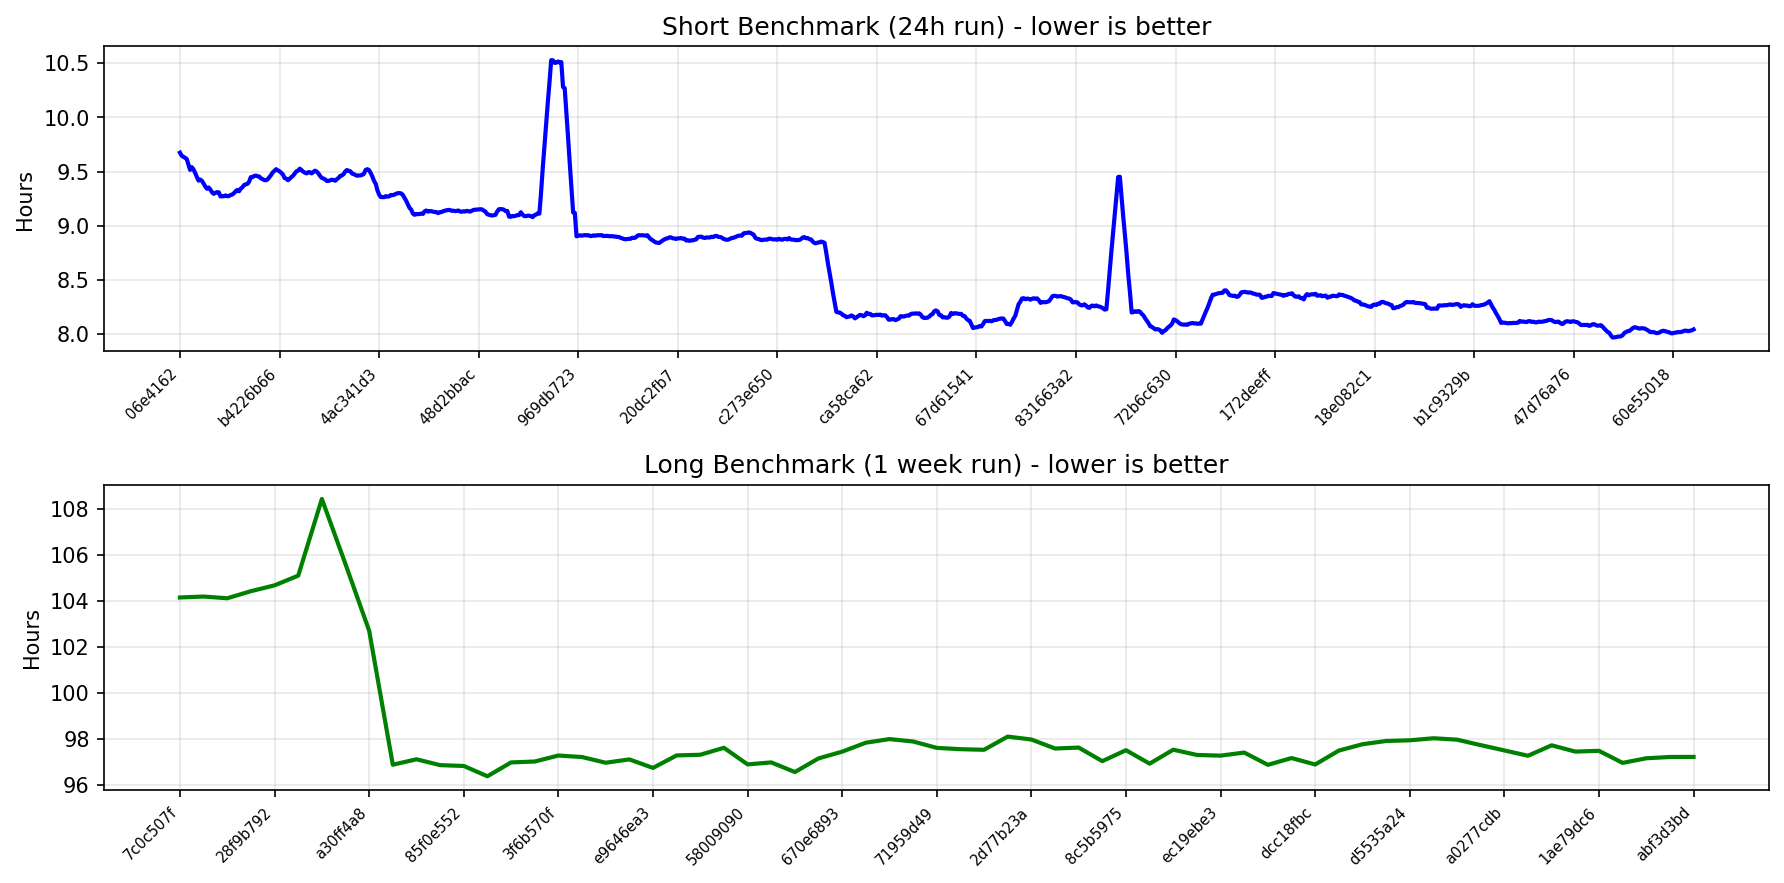
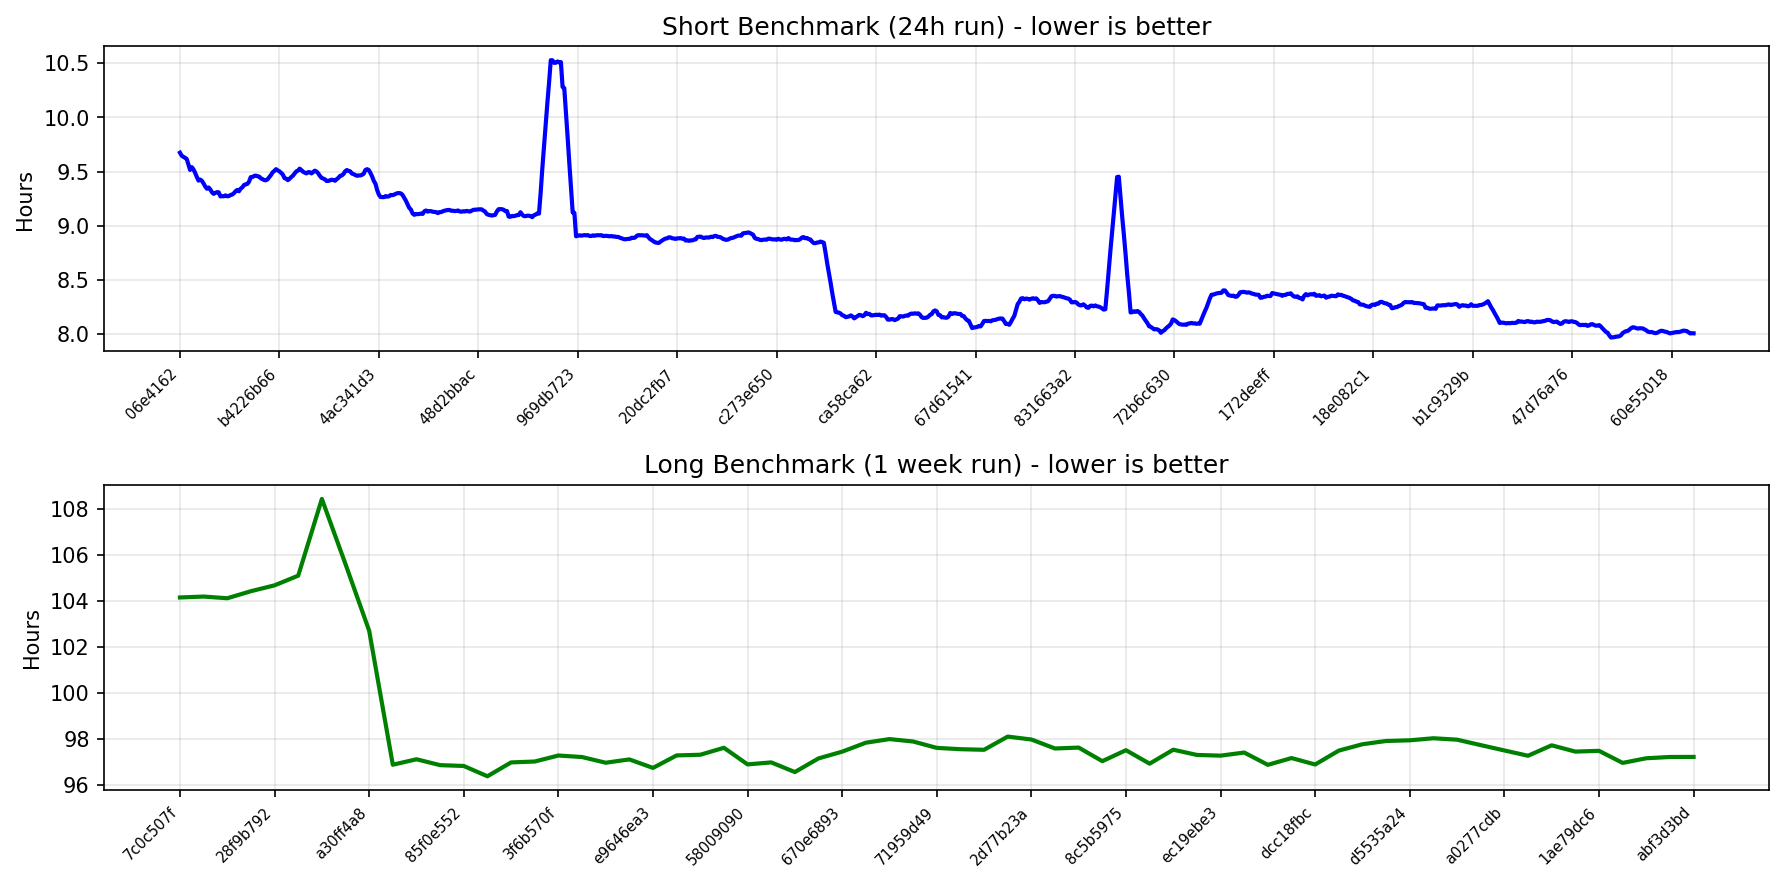
chore: update short benchmark Readme

diff --git a/README.md b/README.md
@@ -12,11 +12,11 @@ This repository contains various eth1 import benchmark metrics.
 
 | Generated At | Baseline SHA | Contender SHA | Baseline Time | Contender Time | Time Delta |
 |--------------|--------------|---------------|---------------|----------------|------------|
+| 2026-08-21 11:32:33 | [6648ce1b](https://github.com/status-im/nimbus-eth1/commit/6648ce1b) | [cde53ac2](https://github.com/status-im/nimbus-eth1/commit/cde53ac2) | 8h1m47s | 7h55m44s | -6m3s, -1.26% |
 | 2026-08-21 03:16:10 | [ceac1963](https://github.com/status-im/nimbus-eth1/commit/ceac1963) | [6648ce1b](https://github.com/status-im/nimbus-eth1/commit/6648ce1b) | 8h1m45s | 8h1m47s | 1s, 0.01% |
 | 2026-08-20 19:00:10 | [fe429cf6](https://github.com/status-im/nimbus-eth1/commit/fe429cf6) | [ceac1963](https://github.com/status-im/nimbus-eth1/commit/ceac1963) | 8h4m30s | 8h1m45s | -2m45s, -0.57% |
 | 2026-08-20 10:41:11 | [da36439b](https://github.com/status-im/nimbus-eth1/commit/da36439b) | [fe429cf6](https://github.com/status-im/nimbus-eth1/commit/fe429cf6) | 8h2m8s | 8h4m30s | 2m22s, 0.49% |
 | 2026-08-20 02:24:21 | [2c8cba94](https://github.com/status-im/nimbus-eth1/commit/2c8cba94) | [da36439b](https://github.com/status-im/nimbus-eth1/commit/da36439b) | 8h1m1s | 8h2m8s | 1m6s, 0.23% |
-| 2026-08-19 18:08:58 | [15045803](https://github.com/status-im/nimbus-eth1/commit/15045803) | [2c8cba94](https://github.com/status-im/nimbus-eth1/commit/2c8cba94) | 8h0m9s | 8h1m1s | 51s, 0.18% |
 
 ## Latest 5 Long Benchmarks (1 Week Run)
 
@@ -36,6 +36,7 @@ All commits with performance changes greater than 1%, sorted chronologically (mo
 
 | Generated At | Baseline SHA | Contender SHA | Baseline Time | Contender Time | Time Delta |
 |--------------|--------------|---------------|---------------|----------------|------------|
+| 2026-08-21 11:32:33 | [6648ce1b](https://github.com/status-im/nimbus-eth1/commit/6648ce1b) | [cde53ac2](https://github.com/status-im/nimbus-eth1/commit/cde53ac2) | 8h1m47s | 7h55m44s | -6m3s, -1.26% |
 | 2026-08-19 09:54:05 | [038d6d77](https://github.com/status-im/nimbus-eth1/commit/038d6d77) | [15045803](https://github.com/status-im/nimbus-eth1/commit/15045803) | 8h18m56s | 8h0m9s | -18m46s, -3.76% |
 | 2026-07-29 10:43:47 | [de8585cb](https://github.com/status-im/nimbus-eth1/commit/de8585cb) | [1ae79dc6](https://github.com/status-im/nimbus-eth1/commit/1ae79dc6) | 98h38m41s | 96h51m21s | -1h47m19s, -1.81% |
 | 2026-07-25 07:55:09 | [2077499e](https://github.com/status-im/nimbus-eth1/commit/2077499e) | [de8585cb](https://github.com/status-im/nimbus-eth1/commit/de8585cb) | 96h48m32s | 98h38m41s | 1h50m9s, 1.90% |
